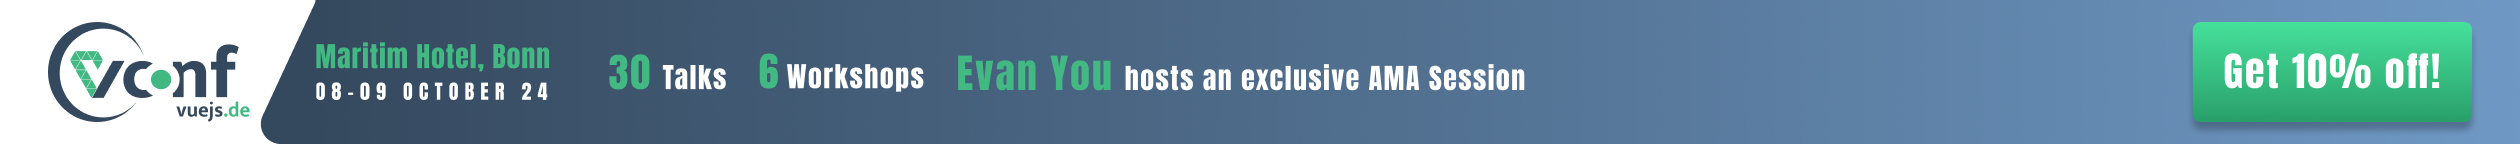
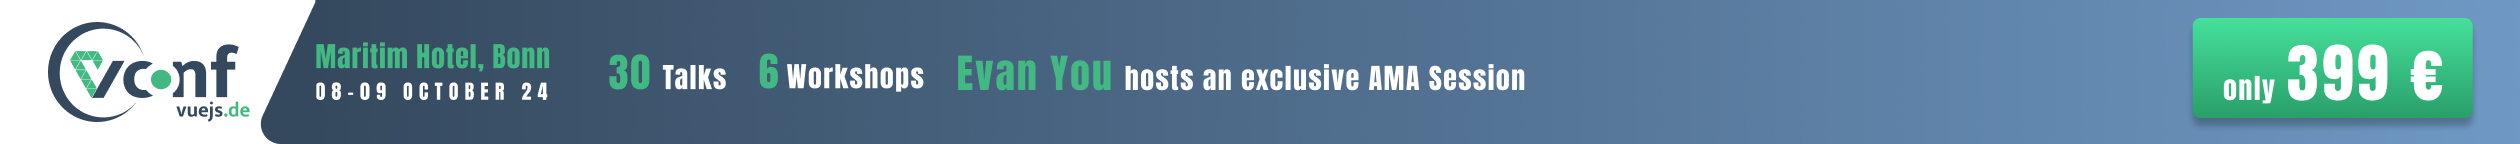
fix: add sale

Changed region(s): [[0.8667, 0.3056, 0.9905, 0.7222], [0.8667, 0.8056, 0.9905, 0.8611], [0.8667, 0.1111, 0.9905, 0.1667]]

diff --git a/.vitepress/theme/components/Banner.vue b/.vitepress/theme/components/Banner.vue
@@ -22,7 +22,7 @@ function dismiss() {
 
 <template>
   <div class="banner banner-vuejsconf" v-if="open">
-    <a href="https://conf.vuejs.de/tickets/?voucher=COMMUNITY&utm_source=vuejs&utm_medium=referral&utm_campaign=banner-placement&utm_content=banner"
+    <a href="https://conf.vuejs.de/tickets/?voucher=VUEJS_SPECIAL_OFFER&utm_source=vuejs&utm_medium=referral&utm_campaign=banner-placement&utm_content=banner"
       target="_blank">
       <picture>
         <source media="(min-width:1260px)"
